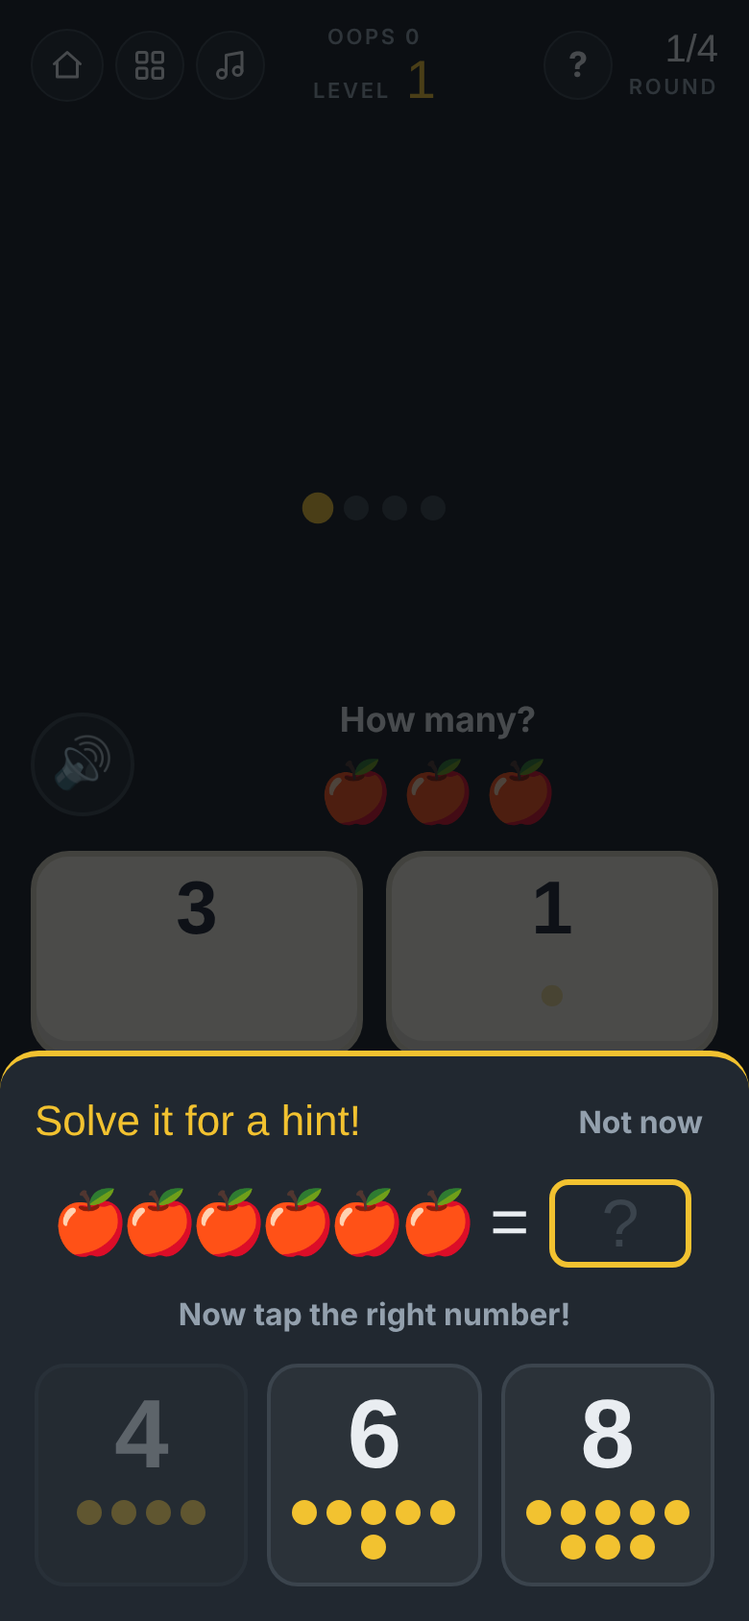
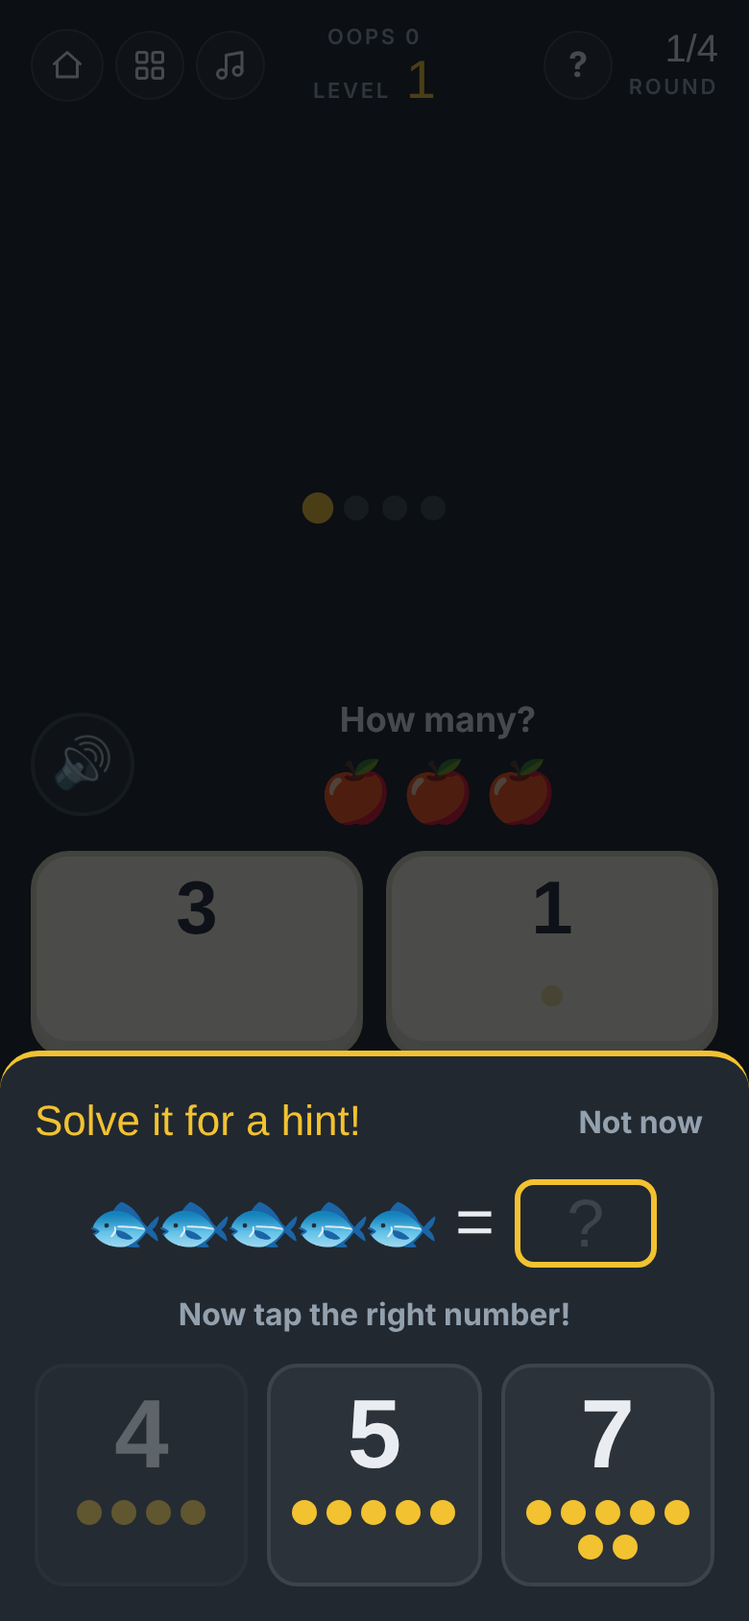
Train Yard: ten more kinds of train jobs (quick look, tunnel number partners, loading boxes, colour cars, first/last car, find every number, sort cargo, line up by size, counting on, first sounds), mixed 5-6 per level
Claude-Session: https://claude.ai/code/session_015WFHRjMqzQhHsfZmDsT6n8

diff --git a/games/trains/index.html b/games/trains/index.html
@@ -17,6 +17,13 @@
 <link rel="stylesheet" href="https://fonts.googleapis.com/css2?family=Bungee&family=Barlow:wght@400;600;700&display=swap">
 <link rel="stylesheet" href="../../shared/ts.css?v=b9dce2af">
 <link rel="stylesheet" href="../../shared/game.css?v=b9dce2af">
+<style>
+.ty-tun{display:inline-block;flex:none;width:clamp(44px,12vw,62px);height:clamp(46px,12.5vw,64px);background:#161616;border:6px solid #b3a794;border-bottom:0;border-radius:40px 40px 0 0;box-sizing:border-box;margin-right:-4px;align-self:flex-end}
+.ty-bin{display:flex;flex-direction:column;align-items:center;gap:2px}.ty-bin b{font-size:clamp(22px,6vw,30px);line-height:1}
+.ty-cb{display:flex;flex-direction:column;align-items:center;gap:2px}
+.lr-combo .lr-cbt{height:auto;min-height:74px;padding:6px 8px}.ty-cb .lr-car{width:clamp(56px,15vw,72px)}.ty-cb .lr-nd b{font-size:22px}.ty-cb .lr-dice{width:30px;height:30px}
+.lr-flash .lr-dots{height:clamp(80px,22vw,120px)}
+</style>
 </head>
 <body>
 <script src="../../shared/ts.js?v=b9dce2af"></script>
@@ -27,7 +34,7 @@
 <script>
 (()=>{const U=TS_LEARN.util;TS.horn.load();
 
-TS_LEARN({id:"trains",name:"Train Yard",howto:[["🚂", "All aboard! Every level has train jobs to do."], ["🔢", "Hook up the cars in number order, count the passengers, and load the train."], ["🎨", "Finish the colour pattern and spell your name with letter cars."], ["🚃", "Every level you finish adds a car to YOUR train!"]],
+TS_LEARN({id:"trains",name:"Train Yard",howto:[["🚂", "All aboard! Every level has train jobs to do."], ["🔢", "Hook up cars in order, count passengers, find the cars in the tunnel, and load boxes."], ["👀", "Quick look! Passengers flash in the window. How many did you see?"], ["🎨", "Colours, patterns, first and last cars, sizes, sounds and your name."], ["🚃", "Every level you finish adds a car to YOUR train!"]],
 rounds:a=>a<=0?5:6,
 winText:(S,K)=>{TS.horn.play();const pr=K.save.grades[K.age]||{stars:{}},cars=Math.max(1,Object.keys(pr.stars||{}).length);
   return "🚂"+"🚃".repeat(Math.min(cars,12))+(cars>12?"+":"")+" Your train has "+cars+" car"+(cars>1?"s":"")+"!"},
@@ -35,10 +42,18 @@ make(n,i,r,a){
   /* Train-themed practice for a child who loves trains: number order, counting, ten-frame seats, patterns, letters of his name,
      comparing train lengths, missing numbers and sorting cargo. Content one grade back (pre-K for Kindergarten). */
   const COL=["#e2412e","#3b6fd9","#f2b705","#43a047","#8f5bd6","#f08a24","#1e9e8a","#e06aa6"],CN={"#e2412e":"red","#3b6fd9":"blue","#f2b705":"yellow","#43a047":"green","#8f5bd6":"purple","#f08a24":"orange","#1e9e8a":"teal","#e06aa6":"pink"};
-  const pr=TS.rngFrom(n*977+(a+3)*31),pool=["couple","passengers","board","pattern","longest","name","missing","cargo"].filter(k=>!(k==="missing"&&a<0&&n<6)&&!(k==="cargo"&&a<0&&n<4));
+  /* More kinds of train jobs (from the project's research notes): quick look (subitizing), the tunnel (number partners),
+     loading boxes (making a number from two parts), colour cars, first/last car (ordinal words), finding every car with a number,
+     sorting cargo by kind, lining cars up by size, counting on, and first sounds. Each level mixes 5-6 different jobs. */
+  const pr=TS.rngFrom(n*977+(a+3)*31),pool=["couple","passengers","board","pattern","longest","name","missing","cargo","quick","tunnel","bonds","colour","ordinal","hunt","sortcargo","sizes","counton","sound"]
+    .filter(k=>!(k==="missing"&&a<0&&n<6)&&!(k==="cargo"&&a<0&&n<4)&&!(k==="bonds"&&a<0&&n<8)&&!(k==="counton"&&a<0)&&!(k==="colour"&&a>=1)&&!(k==="sound"&&a>=1)&&!(k==="name"&&a>=1));
   for(let k=pool.length-1;k>0;k--){const j=Math.floor(pr()*(k+1));[pool[k],pool[j]]=[pool[j],pool[k]]}
-  const kind=i===0?"couple":pool[(i-1)%pool.length]==="couple"?pool[i%pool.length]:pool[(i-1)%pool.length];
+  const kind=pool[(i+n)%pool.length];
   const eng=U.car("#2b2f36","",true),num=v=>a<0?U.numdots(v):String(v);
+  const CNX={red:"#e2412e",blue:"#3b6fd9",yellow:"#f2b705",green:"#43a047",purple:"#8f5bd6",orange:"#f08a24",pink:"#e06aa6",brown:"#8b5a2b",grey:"#9aa3ad",black:"#262626"};
+  const CARGO=[["animals","🐄 🐖 🐑 🐔 🐴 🐐".split(" "),"🐾"],["food","🍎 🍌 🍇 🥕 🍞 🧀".split(" "),"🍎"],["building stuff","🪵 🧱 🪨 🛢 📦 🔩".split(" "),"🧱"],["toys","🧸 ⚽ 🪁 🎈 🧩 🪀".split(" "),"🧸"]];
+  const SOUNDS={b:[["ball","⚽"],["bear","🐻"],["bus","🚌"],["banana","🍌"]],m:[["moon","🌙"],["mouse","🐭"],["monkey","🐒"],["milk","🥛"]],s:[["sun","☀"],["sock","🧦"],["seal","🦭"]],
+    f:[["fish","🐟"],["fox","🦊"],["fire","🔥"],["foot","🦶"]],d:[["dog","🐶"],["duck","🦆"],["door","🚪"]],p:[["pig","🐷"],["pizza","🍕"],["pear","🍐"]],t:[["tiger","🐯"],["turtle","🐢"],["tent","⛺"]]};
   if(kind==="couple"){ // hook up the cars in order behind the engine
     let seq;if(a<0){const k=n<=8?3:n<=20?4:5;seq=Array.from({length:k},(_,j)=>j+1)}
     else if(a===0){const k=n<=10?4:5,s=U.ri(r,1,10-k+1);seq=Array.from({length:k},(_,j)=>s+j);if(n>15&&r()<.4)seq.reverse()}
@@ -75,6 +90,54 @@ make(n,i,r,a){
     const k=5,s=a<0?1:U.ri(r,1,a===0?6:15),seq=Array.from({length:k},(_,j)=>s+j),hole=a<0?2:U.ri(r,1,k-2),ans=seq[hole],opts=U.near(r,ans,3,1,Math.max(s+k+2,6),1);
     return{type:"pick",say:"One train car is missing. Which number goes in the gap?",prompt:'<span class="ask">Which car is missing?</span><span class="lr-train">'+eng+seq.map((v,j)=>j===hole?U.car("#9aa3ad","?"):U.car(COL[j%COL.length],v)).join("")+"</span>",
       options:opts.map(v=>({key:v,html:num(v),say:String(v)})),answer:ans}}
+  if(kind==="quick"){ // quick look: passengers flash in the window, then hide (don't count, just look)
+    const N=a<0?U.ri(r,1,n<=10?3:n<=20?4:5):a===0?U.ri(r,n<=15?2:4,n<=15?6:9):U.ri(r,6,n<=15?10:18),k=a<0||N<=6?"dice":a===0?"pair":"frame",
+      split=k==="pair"?U.ri(r,Math.max(1,N-6),Math.min(6,N-1)):undefined;
+    return{type:"pick",flash:a<0?2600:2000,say:"Quick look! How many passengers are in the window?",prompt:'<span class="ask">👀 Quick look! How many passengers?</span><span class="lr-flash">'+U.dotpic(N,k,r,split)+"</span>",
+      options:U.near(r,N,a<0?3:4,1,Math.max(N+3,6),a<0?2:1).map(v=>({key:v,html:num(v),say:String(v)})),answer:N}}
+  if(kind==="tunnel"){ // number partners: some cars are in the tunnel
+    const N=a<0?U.ri(r,3,n<=10?4:5):a===0?U.ri(r,5,n<=15?7:10):U.ri(r,8,n<=15?12:20),h=U.ri(r,1,N-1),v=N-h;
+    const opts=[h];for(const x of[v,N,h+1,h-1,h+2])if(opts.length<(a<0?3:4)&&x>0&&!opts.includes(x))opts.push(x);
+    return{type:"pick",say:"The train has "+N+" cars. Some went into the tunnel. You can see "+v+". How many cars are in the tunnel?",
+      prompt:'<span class="ask">🚇 The train has <b>'+N+'</b> cars. How many are in the tunnel?</span><span class="lr-train"><i class="ty-tun"></i>'+Array.from({length:Math.min(v,10)},(_,k)=>U.car(COL[k%COL.length],"")).join("")+"</span>",
+      options:U.shuffle(r,opts).map(x=>({key:x,html:num(x),say:String(x)})),answer:h,text:"You can see "+v+". "+v+" and how many make "+N+"?"}}
+  if(kind==="bonds"){ // load boxes: tap cars that make the number together
+    const T=a<0?U.ri(r,3,5):a===0?(n<=15?5:10):a===1?10:20,x=U.ri(r,1,T-1),y=T-x,others=[];let g=0;
+    while(others.length<(a<0?2:3)&&g++<200){const v=U.ri(r,1,T-1);if(v!==x&&v!==y&&!others.includes(v))others.push(v)}
+    const cells=U.shuffle(r,[x,y,...others]);
+    return{type:"combo",target:T,say:"Load "+T+" boxes! Tap the cars that make "+T+" together.",prompt:'<span class="ask">📦 Tap cars that make <b>'+T+"</b> boxes</span>",
+      cells:cells.map(v=>({v,html:a<0?'<span class="ty-cb">'+U.car(COL[v%COL.length],"")+U.numdots(v)+"</span>":U.car(COL[v%COL.length],v),aria:v+" boxes"})),solution:[cells.indexOf(x),cells.lastIndexOf(y)]}}
+  if(kind==="colour"){ // colour words (brown and grey come up too: children learn them last)
+    const names=Object.keys(CNX),t=U.pick(r,names),opts=[t].concat(U.sample(r,names.filter(x=>x!==t),a<0?2:3));
+    return{type:"pick",say:"Hook up the "+t+" car!",prompt:'<span class="ask">🚃 Hook up the <b>'+t+"</b> car</span>",options:U.shuffle(r,opts).map(c=>({key:c,html:U.car(CNX[c],""),say:c,aria:c})),answer:t}}
+  if(kind==="ordinal"){ // first, second, third, last
+    const k=a<0?3:a===0?4:5,cols=U.sample(r,COL,k),W=a<0?[["first",0],["last",k-1]]:[["first",0],["second",1],["third",2],["last",k-1]].concat(a>=1?[["fourth",3]]:[]),[w,idx]=U.pick(r,W);
+    return{type:"pick",cols:Math.min(k,a<0?3:4),say:"Which car is "+w+"? The first car is right behind the engine.",prompt:'<span class="ask">Which car is <b>'+w+'</b>?</span><span class="lr-train">'+eng+cols.map(c=>U.car(c,"")).join("")+"</span>",
+      options:U.shuffle(r,cols.map((c,j)=>({key:"o"+j,html:U.car(c,""),say:"the "+CN[c]+" car",aria:CN[c]}))),answer:"o"+idx}}
+  if(kind==="hunt"){ // find every car with a number (confusable numbers are kept apart early on)
+    const max=a<0?5:a===0?10:20,t=U.ri(r,a<0?1:2,max),cnt=U.ri(r,2,a<0?3:4),size=a<0?6:9,BAD={6:9,9:6,2:5,5:2,1:7,7:1};
+    const others=[];let g=0;while(others.length<size-cnt&&g++<500){const v=U.ri(r,1,max);if(v!==t&&!(a<=0&&BAD[t]===v))others.push(v)}
+    const cells=U.shuffle(r,Array(cnt).fill(t).concat(others));
+    return{type:"hunt",cols:3,say:"Tap every car with the number "+t+"!",prompt:'<span class="ask">🔎 Tap every car with <b>'+t+"</b></span>"+(a<0?U.numdots(t):""),cells:cells.map(v=>({html:U.car(U.pick(r,COL),v),ok:v===t,aria:"car "+v}))}}
+  if(kind==="sortcargo"){ // sort cargo by kind
+    const G=U.sample(r,CARGO,a<0?2:3),items=[];G.forEach(([,em])=>U.sample(r,em,a<0?2:2).forEach(e=>items.push([G.findIndex(x=>x[1]===em),e])));
+    return{type:"sort",say:"Load the cargo! Put each one in the right car.",prompt:'<span class="ask">🚃 Put each thing in the right car</span>',
+      bins:G.map(([nm,,icon],j)=>({key:"g"+j,html:'<span class="ty-bin">'+U.car(COL[j*2],"")+"<b>"+icon+"</b></span>",label:nm})),items:U.shuffle(r,items).map(([j,e])=>({key:"g"+j,html:'<span style="font-size:1.6em">'+e+"</span>",aria:e}))}}
+  if(kind==="sizes"){ // line the cars up by size
+    const k=a<0?3:a===0?4:5,big=a>=0&&r()<.4,cols=U.sample(r,COL,k),W=[48,64,80,96,112];
+    const tiles=cols.map((c,j)=>({key:"s"+j,html:U.car(c,"").replace('class="lr-car"','class="lr-car" style="width:'+W[j]+'px"'),aria:["smallest","small","middle","big","biggest"][j]+" car",say:j===0?"the smallest":j===k-1?"the biggest":"next"}));
+    return{type:"order",wide:true,say:big?"Line up the cars from the biggest to the smallest!":"Line up the cars from the smallest to the biggest!",prompt:'<span class="ask">📏 Line them up: '+(big?"biggest first":"smallest first")+"</span>",
+      tiles:U.mix(r,tiles),answer:(big?tiles.slice().reverse():tiles).map(t=>t.key)}}
+  if(kind==="counton"){ // the car shows how many are on; more get on
+    const s0=a===0?U.ri(r,2,n<=15?5:8):U.ri(r,8,18),b=U.ri(r,1,3),ans=s0+b;
+    return{type:"pick",say:s0+" people are on the train. "+b+" more get on. How many now?",prompt:'<span class="ask">'+s0+" on the train. "+b+' more get on. How many now?</span><span class="lr-train">'+U.car("#e2412e",s0)+'</span><span class="lr-coach">'+"🧑".repeat(b)+"</span>",
+      options:U.near(r,ans,4,1,ans+4,2).map(v=>({key:v,html:num(v),say:String(v)})),answer:ans,text:"Start at "+s0+" and count on "+b+"."}}
+  if(kind==="sound"){ // first sounds: pre-K matches pictures by sound; K picks the letter
+    const L=Object.keys(SOUNDS),t=U.pick(r,a<0?["m","s","f","b"]:L),[q0,ans]=U.sample(r,SOUNDS[t],2),near={m:"n",b:"p",p:"b",d:"t",t:"d",f:"s",s:"f"},oth=U.sample(r,L.filter(x=>x!==t&&near[t]!==x),a<0?1:2);
+    if(a===0)return{type:"pick",say:q0[0]+". What letter does "+q0[0]+" start with?",prompt:'<span class="ask">🚃 <span style="font-size:1.6em">'+q0[1]+"</span> "+q0[0]+" starts with…</span>",
+      options:U.shuffle(r,[t].concat(oth)).map(x=>({key:x,html:U.car(COL["bdfmpst".indexOf(x)%COL.length],x),say:x,aria:x})),answer:t};
+    return{type:"pick",say:"Which one starts like "+q0[0]+"?",prompt:'<span class="ask">Which one starts like <span style="font-size:1.4em">'+q0[1]+"</span> "+q0[0]+"?</span>",
+      options:U.shuffle(r,[ans].concat(oth.map(x=>U.pick(r,SOUNDS[x])))).map(w=>({key:w[0],html:'<span style="font-size:1.8em">'+w[1]+"</span>",say:w[0],aria:w[0]})),answer:ans[0]}}
   // cargo: sort shapes (or colours for pre-K) into the right freight car
   const shapes=a<0?U.sample(r,["circle","square","triangle"],2):U.sample(r,["circle","square","triangle","star","heart"],3);
   const items=[];for(const sh of shapes)for(let k=0;k<(a<0?2:2);k++)items.push(sh);while(items.length<(a<0?4:6))items.push(U.pick(r,shapes));

diff --git a/little/games/trains/index.html b/little/games/trains/index.html
@@ -17,6 +17,13 @@
 <link rel="stylesheet" href="https://fonts.googleapis.com/css2?family=Bungee&family=Barlow:wght@400;600;700&display=swap">
 <link rel="stylesheet" href="../../shared/ts.css?v=b9dce2af">
 <link rel="stylesheet" href="../../shared/game.css?v=b9dce2af">
+<style>
+.ty-tun{display:inline-block;flex:none;width:clamp(44px,12vw,62px);height:clamp(46px,12.5vw,64px);background:#161616;border:6px solid #b3a794;border-bottom:0;border-radius:40px 40px 0 0;box-sizing:border-box;margin-right:-4px;align-self:flex-end}
+.ty-bin{display:flex;flex-direction:column;align-items:center;gap:2px}.ty-bin b{font-size:clamp(22px,6vw,30px);line-height:1}
+.ty-cb{display:flex;flex-direction:column;align-items:center;gap:2px}
+.lr-combo .lr-cbt{height:auto;min-height:74px;padding:6px 8px}.ty-cb .lr-car{width:clamp(56px,15vw,72px)}.ty-cb .lr-nd b{font-size:22px}.ty-cb .lr-dice{width:30px;height:30px}
+.lr-flash .lr-dots{height:clamp(80px,22vw,120px)}
+</style>
 </head>
 <body>
 <script src="../../shared/ts.js?v=b9dce2af"></script>
@@ -27,7 +34,7 @@
 <script>
 (()=>{const U=TS_LEARN.util;TS.horn.load();
 
-TS_LEARN({id:"trains",name:"Train Yard",howto:[["🚂", "All aboard! Every level has train jobs to do."], ["🔢", "Hook up the cars in number order, count the passengers, and load the train."], ["🎨", "Finish the colour pattern and spell your name with letter cars."], ["🚃", "Every level you finish adds a car to YOUR train!"]],
+TS_LEARN({id:"trains",name:"Train Yard",howto:[["🚂", "All aboard! Every level has train jobs to do."], ["🔢", "Hook up cars in order, count passengers, find the cars in the tunnel, and load boxes."], ["👀", "Quick look! Passengers flash in the window. How many did you see?"], ["🎨", "Colours, patterns, first and last cars, sizes, sounds and your name."], ["🚃", "Every level you finish adds a car to YOUR train!"]],
 rounds:a=>a<=0?5:6,
 winText:(S,K)=>{TS.horn.play();const pr=K.save.grades[K.age]||{stars:{}},cars=Math.max(1,Object.keys(pr.stars||{}).length);
   return "🚂"+"🚃".repeat(Math.min(cars,12))+(cars>12?"+":"")+" Your train has "+cars+" car"+(cars>1?"s":"")+"!"},
@@ -35,10 +42,18 @@ make(n,i,r,a){
   /* Train-themed practice for a child who loves trains: number order, counting, ten-frame seats, patterns, letters of his name,
      comparing train lengths, missing numbers and sorting cargo. Content one grade back (pre-K for Kindergarten). */
   const COL=["#e2412e","#3b6fd9","#f2b705","#43a047","#8f5bd6","#f08a24","#1e9e8a","#e06aa6"],CN={"#e2412e":"red","#3b6fd9":"blue","#f2b705":"yellow","#43a047":"green","#8f5bd6":"purple","#f08a24":"orange","#1e9e8a":"teal","#e06aa6":"pink"};
-  const pr=TS.rngFrom(n*977+(a+3)*31),pool=["couple","passengers","board","pattern","longest","name","missing","cargo"].filter(k=>!(k==="missing"&&a<0&&n<6)&&!(k==="cargo"&&a<0&&n<4));
+  /* More kinds of train jobs (from the project's research notes): quick look (subitizing), the tunnel (number partners),
+     loading boxes (making a number from two parts), colour cars, first/last car (ordinal words), finding every car with a number,
+     sorting cargo by kind, lining cars up by size, counting on, and first sounds. Each level mixes 5-6 different jobs. */
+  const pr=TS.rngFrom(n*977+(a+3)*31),pool=["couple","passengers","board","pattern","longest","name","missing","cargo","quick","tunnel","bonds","colour","ordinal","hunt","sortcargo","sizes","counton","sound"]
+    .filter(k=>!(k==="missing"&&a<0&&n<6)&&!(k==="cargo"&&a<0&&n<4)&&!(k==="bonds"&&a<0&&n<8)&&!(k==="counton"&&a<0)&&!(k==="colour"&&a>=1)&&!(k==="sound"&&a>=1)&&!(k==="name"&&a>=1));
   for(let k=pool.length-1;k>0;k--){const j=Math.floor(pr()*(k+1));[pool[k],pool[j]]=[pool[j],pool[k]]}
-  const kind=i===0?"couple":pool[(i-1)%pool.length]==="couple"?pool[i%pool.length]:pool[(i-1)%pool.length];
+  const kind=pool[(i+n)%pool.length];
   const eng=U.car("#2b2f36","",true),num=v=>a<0?U.numdots(v):String(v);
+  const CNX={red:"#e2412e",blue:"#3b6fd9",yellow:"#f2b705",green:"#43a047",purple:"#8f5bd6",orange:"#f08a24",pink:"#e06aa6",brown:"#8b5a2b",grey:"#9aa3ad",black:"#262626"};
+  const CARGO=[["animals","🐄 🐖 🐑 🐔 🐴 🐐".split(" "),"🐾"],["food","🍎 🍌 🍇 🥕 🍞 🧀".split(" "),"🍎"],["building stuff","🪵 🧱 🪨 🛢 📦 🔩".split(" "),"🧱"],["toys","🧸 ⚽ 🪁 🎈 🧩 🪀".split(" "),"🧸"]];
+  const SOUNDS={b:[["ball","⚽"],["bear","🐻"],["bus","🚌"],["banana","🍌"]],m:[["moon","🌙"],["mouse","🐭"],["monkey","🐒"],["milk","🥛"]],s:[["sun","☀"],["sock","🧦"],["seal","🦭"]],
+    f:[["fish","🐟"],["fox","🦊"],["fire","🔥"],["foot","🦶"]],d:[["dog","🐶"],["duck","🦆"],["door","🚪"]],p:[["pig","🐷"],["pizza","🍕"],["pear","🍐"]],t:[["tiger","🐯"],["turtle","🐢"],["tent","⛺"]]};
   if(kind==="couple"){ // hook up the cars in order behind the engine
     let seq;if(a<0){const k=n<=8?3:n<=20?4:5;seq=Array.from({length:k},(_,j)=>j+1)}
     else if(a===0){const k=n<=10?4:5,s=U.ri(r,1,10-k+1);seq=Array.from({length:k},(_,j)=>s+j);if(n>15&&r()<.4)seq.reverse()}
@@ -75,6 +90,54 @@ make(n,i,r,a){
     const k=5,s=a<0?1:U.ri(r,1,a===0?6:15),seq=Array.from({length:k},(_,j)=>s+j),hole=a<0?2:U.ri(r,1,k-2),ans=seq[hole],opts=U.near(r,ans,3,1,Math.max(s+k+2,6),1);
     return{type:"pick",say:"One train car is missing. Which number goes in the gap?",prompt:'<span class="ask">Which car is missing?</span><span class="lr-train">'+eng+seq.map((v,j)=>j===hole?U.car("#9aa3ad","?"):U.car(COL[j%COL.length],v)).join("")+"</span>",
       options:opts.map(v=>({key:v,html:num(v),say:String(v)})),answer:ans}}
+  if(kind==="quick"){ // quick look: passengers flash in the window, then hide (don't count, just look)
+    const N=a<0?U.ri(r,1,n<=10?3:n<=20?4:5):a===0?U.ri(r,n<=15?2:4,n<=15?6:9):U.ri(r,6,n<=15?10:18),k=a<0||N<=6?"dice":a===0?"pair":"frame",
+      split=k==="pair"?U.ri(r,Math.max(1,N-6),Math.min(6,N-1)):undefined;
+    return{type:"pick",flash:a<0?2600:2000,say:"Quick look! How many passengers are in the window?",prompt:'<span class="ask">👀 Quick look! How many passengers?</span><span class="lr-flash">'+U.dotpic(N,k,r,split)+"</span>",
+      options:U.near(r,N,a<0?3:4,1,Math.max(N+3,6),a<0?2:1).map(v=>({key:v,html:num(v),say:String(v)})),answer:N}}
+  if(kind==="tunnel"){ // number partners: some cars are in the tunnel
+    const N=a<0?U.ri(r,3,n<=10?4:5):a===0?U.ri(r,5,n<=15?7:10):U.ri(r,8,n<=15?12:20),h=U.ri(r,1,N-1),v=N-h;
+    const opts=[h];for(const x of[v,N,h+1,h-1,h+2])if(opts.length<(a<0?3:4)&&x>0&&!opts.includes(x))opts.push(x);
+    return{type:"pick",say:"The train has "+N+" cars. Some went into the tunnel. You can see "+v+". How many cars are in the tunnel?",
+      prompt:'<span class="ask">🚇 The train has <b>'+N+'</b> cars. How many are in the tunnel?</span><span class="lr-train"><i class="ty-tun"></i>'+Array.from({length:Math.min(v,10)},(_,k)=>U.car(COL[k%COL.length],"")).join("")+"</span>",
+      options:U.shuffle(r,opts).map(x=>({key:x,html:num(x),say:String(x)})),answer:h,text:"You can see "+v+". "+v+" and how many make "+N+"?"}}
+  if(kind==="bonds"){ // load boxes: tap cars that make the number together
+    const T=a<0?U.ri(r,3,5):a===0?(n<=15?5:10):a===1?10:20,x=U.ri(r,1,T-1),y=T-x,others=[];let g=0;
+    while(others.length<(a<0?2:3)&&g++<200){const v=U.ri(r,1,T-1);if(v!==x&&v!==y&&!others.includes(v))others.push(v)}
+    const cells=U.shuffle(r,[x,y,...others]);
+    return{type:"combo",target:T,say:"Load "+T+" boxes! Tap the cars that make "+T+" together.",prompt:'<span class="ask">📦 Tap cars that make <b>'+T+"</b> boxes</span>",
+      cells:cells.map(v=>({v,html:a<0?'<span class="ty-cb">'+U.car(COL[v%COL.length],"")+U.numdots(v)+"</span>":U.car(COL[v%COL.length],v),aria:v+" boxes"})),solution:[cells.indexOf(x),cells.lastIndexOf(y)]}}
+  if(kind==="colour"){ // colour words (brown and grey come up too: children learn them last)
+    const names=Object.keys(CNX),t=U.pick(r,names),opts=[t].concat(U.sample(r,names.filter(x=>x!==t),a<0?2:3));
+    return{type:"pick",say:"Hook up the "+t+" car!",prompt:'<span class="ask">🚃 Hook up the <b>'+t+"</b> car</span>",options:U.shuffle(r,opts).map(c=>({key:c,html:U.car(CNX[c],""),say:c,aria:c})),answer:t}}
+  if(kind==="ordinal"){ // first, second, third, last
+    const k=a<0?3:a===0?4:5,cols=U.sample(r,COL,k),W=a<0?[["first",0],["last",k-1]]:[["first",0],["second",1],["third",2],["last",k-1]].concat(a>=1?[["fourth",3]]:[]),[w,idx]=U.pick(r,W);
+    return{type:"pick",cols:Math.min(k,a<0?3:4),say:"Which car is "+w+"? The first car is right behind the engine.",prompt:'<span class="ask">Which car is <b>'+w+'</b>?</span><span class="lr-train">'+eng+cols.map(c=>U.car(c,"")).join("")+"</span>",
+      options:U.shuffle(r,cols.map((c,j)=>({key:"o"+j,html:U.car(c,""),say:"the "+CN[c]+" car",aria:CN[c]}))),answer:"o"+idx}}
+  if(kind==="hunt"){ // find every car with a number (confusable numbers are kept apart early on)
+    const max=a<0?5:a===0?10:20,t=U.ri(r,a<0?1:2,max),cnt=U.ri(r,2,a<0?3:4),size=a<0?6:9,BAD={6:9,9:6,2:5,5:2,1:7,7:1};
+    const others=[];let g=0;while(others.length<size-cnt&&g++<500){const v=U.ri(r,1,max);if(v!==t&&!(a<=0&&BAD[t]===v))others.push(v)}
+    const cells=U.shuffle(r,Array(cnt).fill(t).concat(others));
+    return{type:"hunt",cols:3,say:"Tap every car with the number "+t+"!",prompt:'<span class="ask">🔎 Tap every car with <b>'+t+"</b></span>"+(a<0?U.numdots(t):""),cells:cells.map(v=>({html:U.car(U.pick(r,COL),v),ok:v===t,aria:"car "+v}))}}
+  if(kind==="sortcargo"){ // sort cargo by kind
+    const G=U.sample(r,CARGO,a<0?2:3),items=[];G.forEach(([,em])=>U.sample(r,em,a<0?2:2).forEach(e=>items.push([G.findIndex(x=>x[1]===em),e])));
+    return{type:"sort",say:"Load the cargo! Put each one in the right car.",prompt:'<span class="ask">🚃 Put each thing in the right car</span>',
+      bins:G.map(([nm,,icon],j)=>({key:"g"+j,html:'<span class="ty-bin">'+U.car(COL[j*2],"")+"<b>"+icon+"</b></span>",label:nm})),items:U.shuffle(r,items).map(([j,e])=>({key:"g"+j,html:'<span style="font-size:1.6em">'+e+"</span>",aria:e}))}}
+  if(kind==="sizes"){ // line the cars up by size
+    const k=a<0?3:a===0?4:5,big=a>=0&&r()<.4,cols=U.sample(r,COL,k),W=[48,64,80,96,112];
+    const tiles=cols.map((c,j)=>({key:"s"+j,html:U.car(c,"").replace('class="lr-car"','class="lr-car" style="width:'+W[j]+'px"'),aria:["smallest","small","middle","big","biggest"][j]+" car",say:j===0?"the smallest":j===k-1?"the biggest":"next"}));
+    return{type:"order",wide:true,say:big?"Line up the cars from the biggest to the smallest!":"Line up the cars from the smallest to the biggest!",prompt:'<span class="ask">📏 Line them up: '+(big?"biggest first":"smallest first")+"</span>",
+      tiles:U.mix(r,tiles),answer:(big?tiles.slice().reverse():tiles).map(t=>t.key)}}
+  if(kind==="counton"){ // the car shows how many are on; more get on
+    const s0=a===0?U.ri(r,2,n<=15?5:8):U.ri(r,8,18),b=U.ri(r,1,3),ans=s0+b;
+    return{type:"pick",say:s0+" people are on the train. "+b+" more get on. How many now?",prompt:'<span class="ask">'+s0+" on the train. "+b+' more get on. How many now?</span><span class="lr-train">'+U.car("#e2412e",s0)+'</span><span class="lr-coach">'+"🧑".repeat(b)+"</span>",
+      options:U.near(r,ans,4,1,ans+4,2).map(v=>({key:v,html:num(v),say:String(v)})),answer:ans,text:"Start at "+s0+" and count on "+b+"."}}
+  if(kind==="sound"){ // first sounds: pre-K matches pictures by sound; K picks the letter
+    const L=Object.keys(SOUNDS),t=U.pick(r,a<0?["m","s","f","b"]:L),[q0,ans]=U.sample(r,SOUNDS[t],2),near={m:"n",b:"p",p:"b",d:"t",t:"d",f:"s",s:"f"},oth=U.sample(r,L.filter(x=>x!==t&&near[t]!==x),a<0?1:2);
+    if(a===0)return{type:"pick",say:q0[0]+". What letter does "+q0[0]+" start with?",prompt:'<span class="ask">🚃 <span style="font-size:1.6em">'+q0[1]+"</span> "+q0[0]+" starts with…</span>",
+      options:U.shuffle(r,[t].concat(oth)).map(x=>({key:x,html:U.car(COL["bdfmpst".indexOf(x)%COL.length],x),say:x,aria:x})),answer:t};
+    return{type:"pick",say:"Which one starts like "+q0[0]+"?",prompt:'<span class="ask">Which one starts like <span style="font-size:1.4em">'+q0[1]+"</span> "+q0[0]+"?</span>",
+      options:U.shuffle(r,[ans].concat(oth.map(x=>U.pick(r,SOUNDS[x])))).map(w=>({key:w[0],html:'<span style="font-size:1.8em">'+w[1]+"</span>",say:w[0],aria:w[0]})),answer:ans[0]}}
   // cargo: sort shapes (or colours for pre-K) into the right freight car
   const shapes=a<0?U.sample(r,["circle","square","triangle"],2):U.sample(r,["circle","square","triangle","star","heart"],3);
   const items=[];for(const sh of shapes)for(let k=0;k<(a<0?2:2);k++)items.push(sh);while(items.length<(a<0?4:6))items.push(U.pick(r,shapes));

diff --git a/src/trains.html b/src/trains.html
@@ -2,6 +2,13 @@
 <html lang="en">
 <head>
 <!--HEAD:Train Yard-->
+<style>
+.ty-tun{display:inline-block;flex:none;width:clamp(44px,12vw,62px);height:clamp(46px,12.5vw,64px);background:#161616;border:6px solid #b3a794;border-bottom:0;border-radius:40px 40px 0 0;box-sizing:border-box;margin-right:-4px;align-self:flex-end}
+.ty-bin{display:flex;flex-direction:column;align-items:center;gap:2px}.ty-bin b{font-size:clamp(22px,6vw,30px);line-height:1}
+.ty-cb{display:flex;flex-direction:column;align-items:center;gap:2px}
+.lr-combo .lr-cbt{height:auto;min-height:74px;padding:6px 8px}.ty-cb .lr-car{width:clamp(56px,15vw,72px)}.ty-cb .lr-nd b{font-size:22px}.ty-cb .lr-dice{width:30px;height:30px}
+.lr-flash .lr-dots{height:clamp(80px,22vw,120px)}
+</style>
 </head>
 <body>
 <!--KIT-->
@@ -9,7 +16,7 @@
 <script>
 (()=>{const U=TS_LEARN.util;TS.horn.load();
 
-TS_LEARN({id:"trains",name:"Train Yard",howto:[["🚂", "All aboard! Every level has train jobs to do."], ["🔢", "Hook up the cars in number order, count the passengers, and load the train."], ["🎨", "Finish the colour pattern and spell your name with letter cars."], ["🚃", "Every level you finish adds a car to YOUR train!"]],
+TS_LEARN({id:"trains",name:"Train Yard",howto:[["🚂", "All aboard! Every level has train jobs to do."], ["🔢", "Hook up cars in order, count passengers, find the cars in the tunnel, and load boxes."], ["👀", "Quick look! Passengers flash in the window. How many did you see?"], ["🎨", "Colours, patterns, first and last cars, sizes, sounds and your name."], ["🚃", "Every level you finish adds a car to YOUR train!"]],
 rounds:a=>a<=0?5:6,
 winText:(S,K)=>{TS.horn.play();const pr=K.save.grades[K.age]||{stars:{}},cars=Math.max(1,Object.keys(pr.stars||{}).length);
   return "🚂"+"🚃".repeat(Math.min(cars,12))+(cars>12?"+":"")+" Your train has "+cars+" car"+(cars>1?"s":"")+"!"},
@@ -17,10 +24,18 @@ make(n,i,r,a){
   /* Train-themed practice for a child who loves trains: number order, counting, ten-frame seats, patterns, letters of his name,
      comparing train lengths, missing numbers and sorting cargo. Content one grade back (pre-K for Kindergarten). */
   const COL=["#e2412e","#3b6fd9","#f2b705","#43a047","#8f5bd6","#f08a24","#1e9e8a","#e06aa6"],CN={"#e2412e":"red","#3b6fd9":"blue","#f2b705":"yellow","#43a047":"green","#8f5bd6":"purple","#f08a24":"orange","#1e9e8a":"teal","#e06aa6":"pink"};
-  const pr=TS.rngFrom(n*977+(a+3)*31),pool=["couple","passengers","board","pattern","longest","name","missing","cargo"].filter(k=>!(k==="missing"&&a<0&&n<6)&&!(k==="cargo"&&a<0&&n<4));
+  /* More kinds of train jobs (from the project's research notes): quick look (subitizing), the tunnel (number partners),
+     loading boxes (making a number from two parts), colour cars, first/last car (ordinal words), finding every car with a number,
+     sorting cargo by kind, lining cars up by size, counting on, and first sounds. Each level mixes 5-6 different jobs. */
+  const pr=TS.rngFrom(n*977+(a+3)*31),pool=["couple","passengers","board","pattern","longest","name","missing","cargo","quick","tunnel","bonds","colour","ordinal","hunt","sortcargo","sizes","counton","sound"]
+    .filter(k=>!(k==="missing"&&a<0&&n<6)&&!(k==="cargo"&&a<0&&n<4)&&!(k==="bonds"&&a<0&&n<8)&&!(k==="counton"&&a<0)&&!(k==="colour"&&a>=1)&&!(k==="sound"&&a>=1)&&!(k==="name"&&a>=1));
   for(let k=pool.length-1;k>0;k--){const j=Math.floor(pr()*(k+1));[pool[k],pool[j]]=[pool[j],pool[k]]}
-  const kind=i===0?"couple":pool[(i-1)%pool.length]==="couple"?pool[i%pool.length]:pool[(i-1)%pool.length];
+  const kind=pool[(i+n)%pool.length];
   const eng=U.car("#2b2f36","",true),num=v=>a<0?U.numdots(v):String(v);
+  const CNX={red:"#e2412e",blue:"#3b6fd9",yellow:"#f2b705",green:"#43a047",purple:"#8f5bd6",orange:"#f08a24",pink:"#e06aa6",brown:"#8b5a2b",grey:"#9aa3ad",black:"#262626"};
+  const CARGO=[["animals","🐄 🐖 🐑 🐔 🐴 🐐".split(" "),"🐾"],["food","🍎 🍌 🍇 🥕 🍞 🧀".split(" "),"🍎"],["building stuff","🪵 🧱 🪨 🛢 📦 🔩".split(" "),"🧱"],["toys","🧸 ⚽ 🪁 🎈 🧩 🪀".split(" "),"🧸"]];
+  const SOUNDS={b:[["ball","⚽"],["bear","🐻"],["bus","🚌"],["banana","🍌"]],m:[["moon","🌙"],["mouse","🐭"],["monkey","🐒"],["milk","🥛"]],s:[["sun","☀"],["sock","🧦"],["seal","🦭"]],
+    f:[["fish","🐟"],["fox","🦊"],["fire","🔥"],["foot","🦶"]],d:[["dog","🐶"],["duck","🦆"],["door","🚪"]],p:[["pig","🐷"],["pizza","🍕"],["pear","🍐"]],t:[["tiger","🐯"],["turtle","🐢"],["tent","⛺"]]};
   if(kind==="couple"){ // hook up the cars in order behind the engine
     let seq;if(a<0){const k=n<=8?3:n<=20?4:5;seq=Array.from({length:k},(_,j)=>j+1)}
     else if(a===0){const k=n<=10?4:5,s=U.ri(r,1,10-k+1);seq=Array.from({length:k},(_,j)=>s+j);if(n>15&&r()<.4)seq.reverse()}
@@ -57,6 +72,54 @@ make(n,i,r,a){
     const k=5,s=a<0?1:U.ri(r,1,a===0?6:15),seq=Array.from({length:k},(_,j)=>s+j),hole=a<0?2:U.ri(r,1,k-2),ans=seq[hole],opts=U.near(r,ans,3,1,Math.max(s+k+2,6),1);
     return{type:"pick",say:"One train car is missing. Which number goes in the gap?",prompt:'<span class="ask">Which car is missing?</span><span class="lr-train">'+eng+seq.map((v,j)=>j===hole?U.car("#9aa3ad","?"):U.car(COL[j%COL.length],v)).join("")+"</span>",
       options:opts.map(v=>({key:v,html:num(v),say:String(v)})),answer:ans}}
+  if(kind==="quick"){ // quick look: passengers flash in the window, then hide (don't count, just look)
+    const N=a<0?U.ri(r,1,n<=10?3:n<=20?4:5):a===0?U.ri(r,n<=15?2:4,n<=15?6:9):U.ri(r,6,n<=15?10:18),k=a<0||N<=6?"dice":a===0?"pair":"frame",
+      split=k==="pair"?U.ri(r,Math.max(1,N-6),Math.min(6,N-1)):undefined;
+    return{type:"pick",flash:a<0?2600:2000,say:"Quick look! How many passengers are in the window?",prompt:'<span class="ask">👀 Quick look! How many passengers?</span><span class="lr-flash">'+U.dotpic(N,k,r,split)+"</span>",
+      options:U.near(r,N,a<0?3:4,1,Math.max(N+3,6),a<0?2:1).map(v=>({key:v,html:num(v),say:String(v)})),answer:N}}
+  if(kind==="tunnel"){ // number partners: some cars are in the tunnel
+    const N=a<0?U.ri(r,3,n<=10?4:5):a===0?U.ri(r,5,n<=15?7:10):U.ri(r,8,n<=15?12:20),h=U.ri(r,1,N-1),v=N-h;
+    const opts=[h];for(const x of[v,N,h+1,h-1,h+2])if(opts.length<(a<0?3:4)&&x>0&&!opts.includes(x))opts.push(x);
+    return{type:"pick",say:"The train has "+N+" cars. Some went into the tunnel. You can see "+v+". How many cars are in the tunnel?",
+      prompt:'<span class="ask">🚇 The train has <b>'+N+'</b> cars. How many are in the tunnel?</span><span class="lr-train"><i class="ty-tun"></i>'+Array.from({length:Math.min(v,10)},(_,k)=>U.car(COL[k%COL.length],"")).join("")+"</span>",
+      options:U.shuffle(r,opts).map(x=>({key:x,html:num(x),say:String(x)})),answer:h,text:"You can see "+v+". "+v+" and how many make "+N+"?"}}
+  if(kind==="bonds"){ // load boxes: tap cars that make the number together
+    const T=a<0?U.ri(r,3,5):a===0?(n<=15?5:10):a===1?10:20,x=U.ri(r,1,T-1),y=T-x,others=[];let g=0;
+    while(others.length<(a<0?2:3)&&g++<200){const v=U.ri(r,1,T-1);if(v!==x&&v!==y&&!others.includes(v))others.push(v)}
+    const cells=U.shuffle(r,[x,y,...others]);
+    return{type:"combo",target:T,say:"Load "+T+" boxes! Tap the cars that make "+T+" together.",prompt:'<span class="ask">📦 Tap cars that make <b>'+T+"</b> boxes</span>",
+      cells:cells.map(v=>({v,html:a<0?'<span class="ty-cb">'+U.car(COL[v%COL.length],"")+U.numdots(v)+"</span>":U.car(COL[v%COL.length],v),aria:v+" boxes"})),solution:[cells.indexOf(x),cells.lastIndexOf(y)]}}
+  if(kind==="colour"){ // colour words (brown and grey come up too: children learn them last)
+    const names=Object.keys(CNX),t=U.pick(r,names),opts=[t].concat(U.sample(r,names.filter(x=>x!==t),a<0?2:3));
+    return{type:"pick",say:"Hook up the "+t+" car!",prompt:'<span class="ask">🚃 Hook up the <b>'+t+"</b> car</span>",options:U.shuffle(r,opts).map(c=>({key:c,html:U.car(CNX[c],""),say:c,aria:c})),answer:t}}
+  if(kind==="ordinal"){ // first, second, third, last
+    const k=a<0?3:a===0?4:5,cols=U.sample(r,COL,k),W=a<0?[["first",0],["last",k-1]]:[["first",0],["second",1],["third",2],["last",k-1]].concat(a>=1?[["fourth",3]]:[]),[w,idx]=U.pick(r,W);
+    return{type:"pick",cols:Math.min(k,a<0?3:4),say:"Which car is "+w+"? The first car is right behind the engine.",prompt:'<span class="ask">Which car is <b>'+w+'</b>?</span><span class="lr-train">'+eng+cols.map(c=>U.car(c,"")).join("")+"</span>",
+      options:U.shuffle(r,cols.map((c,j)=>({key:"o"+j,html:U.car(c,""),say:"the "+CN[c]+" car",aria:CN[c]}))),answer:"o"+idx}}
+  if(kind==="hunt"){ // find every car with a number (confusable numbers are kept apart early on)
+    const max=a<0?5:a===0?10:20,t=U.ri(r,a<0?1:2,max),cnt=U.ri(r,2,a<0?3:4),size=a<0?6:9,BAD={6:9,9:6,2:5,5:2,1:7,7:1};
+    const others=[];let g=0;while(others.length<size-cnt&&g++<500){const v=U.ri(r,1,max);if(v!==t&&!(a<=0&&BAD[t]===v))others.push(v)}
+    const cells=U.shuffle(r,Array(cnt).fill(t).concat(others));
+    return{type:"hunt",cols:3,say:"Tap every car with the number "+t+"!",prompt:'<span class="ask">🔎 Tap every car with <b>'+t+"</b></span>"+(a<0?U.numdots(t):""),cells:cells.map(v=>({html:U.car(U.pick(r,COL),v),ok:v===t,aria:"car "+v}))}}
+  if(kind==="sortcargo"){ // sort cargo by kind
+    const G=U.sample(r,CARGO,a<0?2:3),items=[];G.forEach(([,em])=>U.sample(r,em,a<0?2:2).forEach(e=>items.push([G.findIndex(x=>x[1]===em),e])));
+    return{type:"sort",say:"Load the cargo! Put each one in the right car.",prompt:'<span class="ask">🚃 Put each thing in the right car</span>',
+      bins:G.map(([nm,,icon],j)=>({key:"g"+j,html:'<span class="ty-bin">'+U.car(COL[j*2],"")+"<b>"+icon+"</b></span>",label:nm})),items:U.shuffle(r,items).map(([j,e])=>({key:"g"+j,html:'<span style="font-size:1.6em">'+e+"</span>",aria:e}))}}
+  if(kind==="sizes"){ // line the cars up by size
+    const k=a<0?3:a===0?4:5,big=a>=0&&r()<.4,cols=U.sample(r,COL,k),W=[48,64,80,96,112];
+    const tiles=cols.map((c,j)=>({key:"s"+j,html:U.car(c,"").replace('class="lr-car"','class="lr-car" style="width:'+W[j]+'px"'),aria:["smallest","small","middle","big","biggest"][j]+" car",say:j===0?"the smallest":j===k-1?"the biggest":"next"}));
+    return{type:"order",wide:true,say:big?"Line up the cars from the biggest to the smallest!":"Line up the cars from the smallest to the biggest!",prompt:'<span class="ask">📏 Line them up: '+(big?"biggest first":"smallest first")+"</span>",
+      tiles:U.mix(r,tiles),answer:(big?tiles.slice().reverse():tiles).map(t=>t.key)}}
+  if(kind==="counton"){ // the car shows how many are on; more get on
+    const s0=a===0?U.ri(r,2,n<=15?5:8):U.ri(r,8,18),b=U.ri(r,1,3),ans=s0+b;
+    return{type:"pick",say:s0+" people are on the train. "+b+" more get on. How many now?",prompt:'<span class="ask">'+s0+" on the train. "+b+' more get on. How many now?</span><span class="lr-train">'+U.car("#e2412e",s0)+'</span><span class="lr-coach">'+"🧑".repeat(b)+"</span>",
+      options:U.near(r,ans,4,1,ans+4,2).map(v=>({key:v,html:num(v),say:String(v)})),answer:ans,text:"Start at "+s0+" and count on "+b+"."}}
+  if(kind==="sound"){ // first sounds: pre-K matches pictures by sound; K picks the letter
+    const L=Object.keys(SOUNDS),t=U.pick(r,a<0?["m","s","f","b"]:L),[q0,ans]=U.sample(r,SOUNDS[t],2),near={m:"n",b:"p",p:"b",d:"t",t:"d",f:"s",s:"f"},oth=U.sample(r,L.filter(x=>x!==t&&near[t]!==x),a<0?1:2);
+    if(a===0)return{type:"pick",say:q0[0]+". What letter does "+q0[0]+" start with?",prompt:'<span class="ask">🚃 <span style="font-size:1.6em">'+q0[1]+"</span> "+q0[0]+" starts with…</span>",
+      options:U.shuffle(r,[t].concat(oth)).map(x=>({key:x,html:U.car(COL["bdfmpst".indexOf(x)%COL.length],x),say:x,aria:x})),answer:t};
+    return{type:"pick",say:"Which one starts like "+q0[0]+"?",prompt:'<span class="ask">Which one starts like <span style="font-size:1.4em">'+q0[1]+"</span> "+q0[0]+"?</span>",
+      options:U.shuffle(r,[ans].concat(oth.map(x=>U.pick(r,SOUNDS[x])))).map(w=>({key:w[0],html:'<span style="font-size:1.8em">'+w[1]+"</span>",say:w[0],aria:w[0]})),answer:ans[0]}}
   // cargo: sort shapes (or colours for pre-K) into the right freight car
   const shapes=a<0?U.sample(r,["circle","square","triangle"],2):U.sample(r,["circle","square","triangle","star","heart"],3);
   const items=[];for(const sh of shapes)for(let k=0;k<(a<0?2:2);k++)items.push(sh);while(items.length<(a<0?4:6))items.push(U.pick(r,shapes));

diff --git a/tools/test_learn.py b/tools/test_learn.py
@@ -26,6 +26,7 @@ VALIDATE = """(()=>{const bad=[],TR=TS_LEARN.TRACE;let rounds=0;
     else if(R.type==='trace'){if(!TR[R.ch])bad.push(id+' no strokes for '+R.ch)}
     else if(R.type==='meet'){if(!R.up||!R.pic||!R.word)bad.push(id+' meet missing letter/picture')}
     else if(R.type==='sing'){if(!R.letters.length||R.letters.length!==R.notes.length||R.notes.some(m=>!(m>=48&&m<=84)))bad.push(id+' bad song')}
+    else if(R.type==='combo'){const t=R.solution.reduce((x,k)=>x+R.cells[k].v,0);if(t!==R.target||new Set(R.solution).size!==R.solution.length)bad.push(id+' combo solution does not make target')}
     else bad.push(id+' unknown type')}}
   return{bad:bad.slice(0,8),n:bad.length,rounds}})()"""
 

diff --git a/README.md b/README.md
@@ -40,7 +40,7 @@ Hints in every game cost one of these questions. There are three tries at the sa
 
 ## Little learners (Kindergarten to grade 2)
 
-**Favourite things:** each player can pick a favourite (🚂 trains, 🚚 trucks, 🦖 dinosaurs, 🚀 space, 🐶 animals, 🦄 unicorns, ⚽ sports). Count It, More or Less, Pattern Next and the pre-K maths questions then draw their pictures from it. **Train Yard** is all trains: hook up number cars in order, count passengers, fill seats (ten frame), colour-car patterns, spell your name with letter cars, longest/shortest train, the missing car and loading cargo by shape. Each level won adds a car to the player's train. **Train Trip** has no levels: the train rides from station to station through prairie, forest, mountains, lakes and towns, with tunnels and bridges. At every Y in the track it stops at a red signal, the voice asks a question, and the child taps the sign on the right track (2 tracks for pre-K, 3 after). Questions come from one grade back and follow the project's research notes. Pre-K and K get numerals with dots, counting (the voice counts along when it's right), colours, shapes, letters, more/fewer, quick-look dot flashes (subitizing: dots show for about 2 seconds), "how many cars are in the tunnel?" (number partners), counting on, the missing number on a number track, rhymes, first sounds by picture (letters from K), clapping syllables, longest/tallest/biggest, position words (on, under, in, then next to, behind, in front of) and "which one goes with these?". Older grades get sums, skip counting, odd/even, tens and ones, number partners as equations and counting on by tens.
+**Favourite things:** each player can pick a favourite (🚂 trains, 🚚 trucks, 🦖 dinosaurs, 🚀 space, 🐶 animals, 🦄 unicorns, ⚽ sports). Count It, More or Less, Pattern Next and the pre-K maths questions then draw their pictures from it. **Train Yard** is all trains: hook up number cars in order, count passengers, fill seats (ten frame), colour-car patterns, spell your name with letter cars, longest/shortest train, the missing car and loading cargo by shape. Newer jobs, from the research notes: quick look (passengers flash in the window), cars hidden in a tunnel (number partners), loading boxes by tapping cars that make a number, colour cars, first/second/last car, finding every car with a number, sorting cargo by kind, lining cars up by size, counting on, and first sounds (by picture for pre-K, by letter for K). Each level mixes 5-6 different jobs. Each level won adds a car to the player's train. **Train Trip** has no levels: the train rides from station to station through prairie, forest, mountains, lakes and towns, with tunnels and bridges. At every Y in the track it stops at a red signal, the voice asks a question, and the child taps the sign on the right track (2 tracks for pre-K, 3 after). Questions come from one grade back and follow the project's research notes. Pre-K and K get numerals with dots, counting (the voice counts along when it's right), colours, shapes, letters, more/fewer, quick-look dot flashes (subitizing: dots show for about 2 seconds), "how many cars are in the tunnel?" (number partners), counting on, the missing number on a number track, rhymes, first sounds by picture (letters from K), clapping syllables, longest/tallest/biggest, position words (on, under, in, then next to, behind, in front of) and "which one goes with these?". Older grades get sums, skip counting, odd/even, tens and ones, number partners as equations and counting on by tens.
 
 Between the Ys, each leg has one stop, taking turns: a passenger stop (pick up exactly N; seats are laid out as a five- or ten-frame, and from K some are already aboard: "make it 10"), a broken bridge (put the number planks in order: 1-3, then 1-5, then by length; later runs by 2s, 5s and 10s and place-value traps like 109, 190, 901), and animals on the track (toot the horn once for each animal). Each leg also has its own weather: day, sunset, night (stars, moon and a headlight), snow, rain, and a rainbow after rain. Each kind of question steps up after about 4 of 5 right and down after 2 misses in a row. A wrong sign greys out and the voice says what it was; a missed question comes back two Ys later. Every 3–5 Ys is a station with a present: a new car for the train (passenger, coal, tank, grain, caboose, party car and more), and a 🎵 for Tile Tunes. `tools/test_trip.py` rides it through.
 
